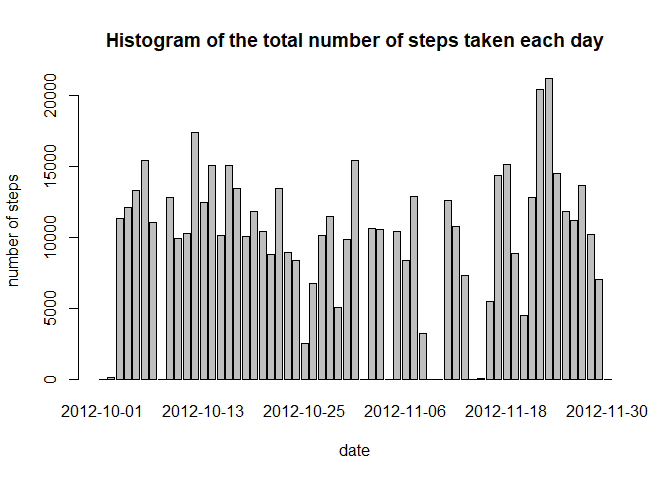
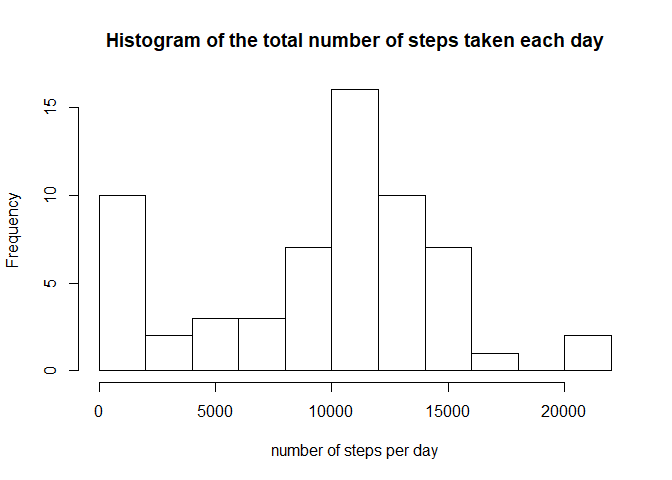
change barplot into histogram in PA1_template.Rmd

diff --git a/PA1_template.html b/PA1_template.html
@@ -419,8 +419,9 @@ df_sum_steps&lt;-data_activity%&gt;%group_by(date)%&gt;%summarize(sum_steps=sum(
 <li><strong>Make a histogram of the total number of steps taken each day</strong></li>
 </ol>
 <pre class="r"><code>#plot the Histogram of the total number of steps taken each day
-with( df_sum_steps, barplot(sum_steps~date, main=&quot;Histogram of the total number of steps taken each day&quot;, ylab=&quot;number of steps&quot;))</code></pre>
[1 lines of base64/hex data omitted]
+#with( df_sum_steps, barplot(sum_steps~date, main=&quot;Histogram of the total number of steps taken each day&quot;, ylab=&quot;number of steps&quot;))
+with( df_sum_steps, hist(sum_steps,,breaks=10,main=&quot;Histogram of the total number of steps taken each day&quot;, xlab=&quot;number of steps per day&quot;))</code></pre>
[1 lines of base64/hex data omitted]
 <ol start="3" style="list-style-type: decimal">
 <li><strong>Calculate and report the mean and median of the total number of steps taken per day</strong></li>
 </ol>
@@ -496,8 +497,9 @@ data_activity2[NA_rows,1] &lt;- df_average_day_activity[match(data_activity2[NA_
 df_sum_steps2&lt;-data_activity2%&gt;%group_by(date)%&gt;%summarize(sum_steps=sum(steps,na.rm=TRUE))
 
 #plot the Histogram of the total number of steps taken each day
-with( df_sum_steps2, barplot(sum_steps~date, main=&quot;Histogram of the total number of steps taken each day&quot;, ylab=&quot;number of steps&quot;))</code></pre>
[1 lines of base64/hex data omitted]
+#with( df_sum_steps2, barplot(sum_steps~date, main=&quot;Histogram of the total number of steps taken each day&quot;, ylab=&quot;number of steps&quot;))
+with( df_sum_steps2, hist(sum_steps,,breaks=10,main=&quot;Histogram of the total number of steps taken each day&quot;, xlab=&quot;number of steps per day&quot;))</code></pre>
[1 lines of base64/hex data omitted]
 <pre class="r"><code>#Calculate and report the mean and median total number of steps taken per day 
 #------------------------------------------------------------------------------------------------
 df_mm_day2&lt;-df_sum_steps2%&gt;%summarize(mean_step = mean(sum_steps,na.rm=TRUE),median_step=median(sum_steps,na.rm=TRUE))</code></pre>

diff --git a/PA1_template.md b/PA1_template.md
@@ -72,7 +72,8 @@ df_sum_steps<-data_activity%>%group_by(date)%>%summarize(sum_steps=sum(steps,na.
 
 ```r
 #plot the Histogram of the total number of steps taken each day
-with( df_sum_steps, barplot(sum_steps~date, main="Histogram of the total number of steps taken each day", ylab="number of steps"))
+#with( df_sum_steps, barplot(sum_steps~date, main="Histogram of the total number of steps taken each day", ylab="number of steps"))
+with( df_sum_steps, hist(sum_steps,,breaks=10,main="Histogram of the total number of steps taken each day", xlab="number of steps per day"))
 ```
 
 ![](figure/unnamed-chunk-3-1.png)<!-- -->
@@ -170,7 +171,8 @@ data_activity2[NA_rows,1] <- df_average_day_activity[match(data_activity2[NA_row
 df_sum_steps2<-data_activity2%>%group_by(date)%>%summarize(sum_steps=sum(steps,na.rm=TRUE))
 
 #plot the Histogram of the total number of steps taken each day
-with( df_sum_steps2, barplot(sum_steps~date, main="Histogram of the total number of steps taken each day", ylab="number of steps"))
+#with( df_sum_steps2, barplot(sum_steps~date, main="Histogram of the total number of steps taken each day", ylab="number of steps"))
+with( df_sum_steps2, hist(sum_steps,,breaks=10,main="Histogram of the total number of steps taken each day", xlab="number of steps per day"))
 ```
 
 ![](figure/unnamed-chunk-8-1.png)<!-- -->
